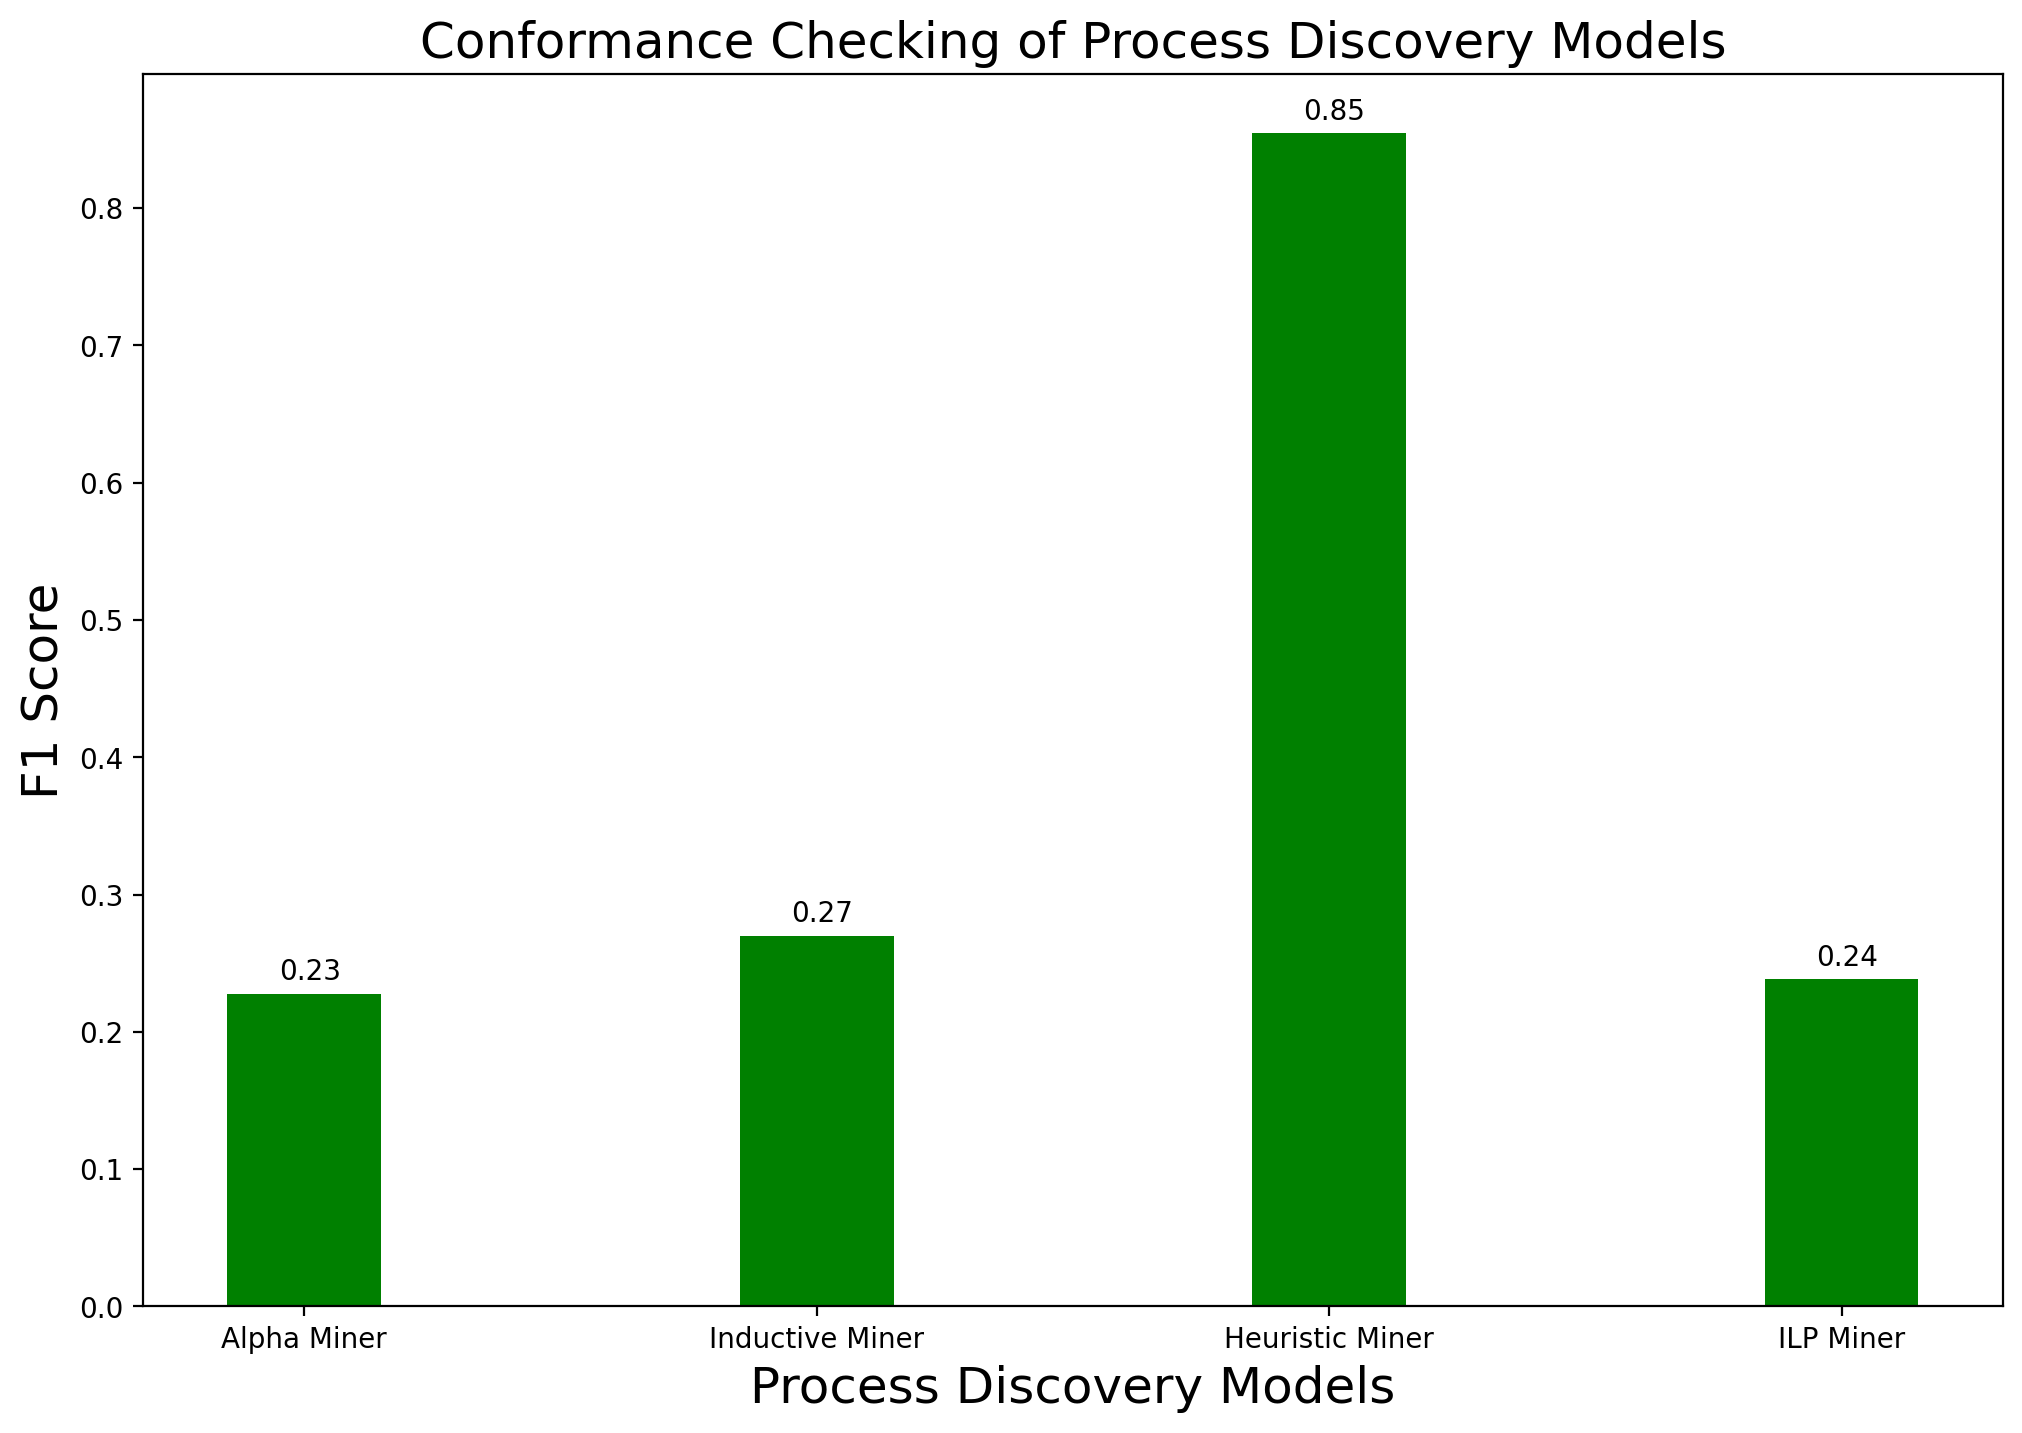
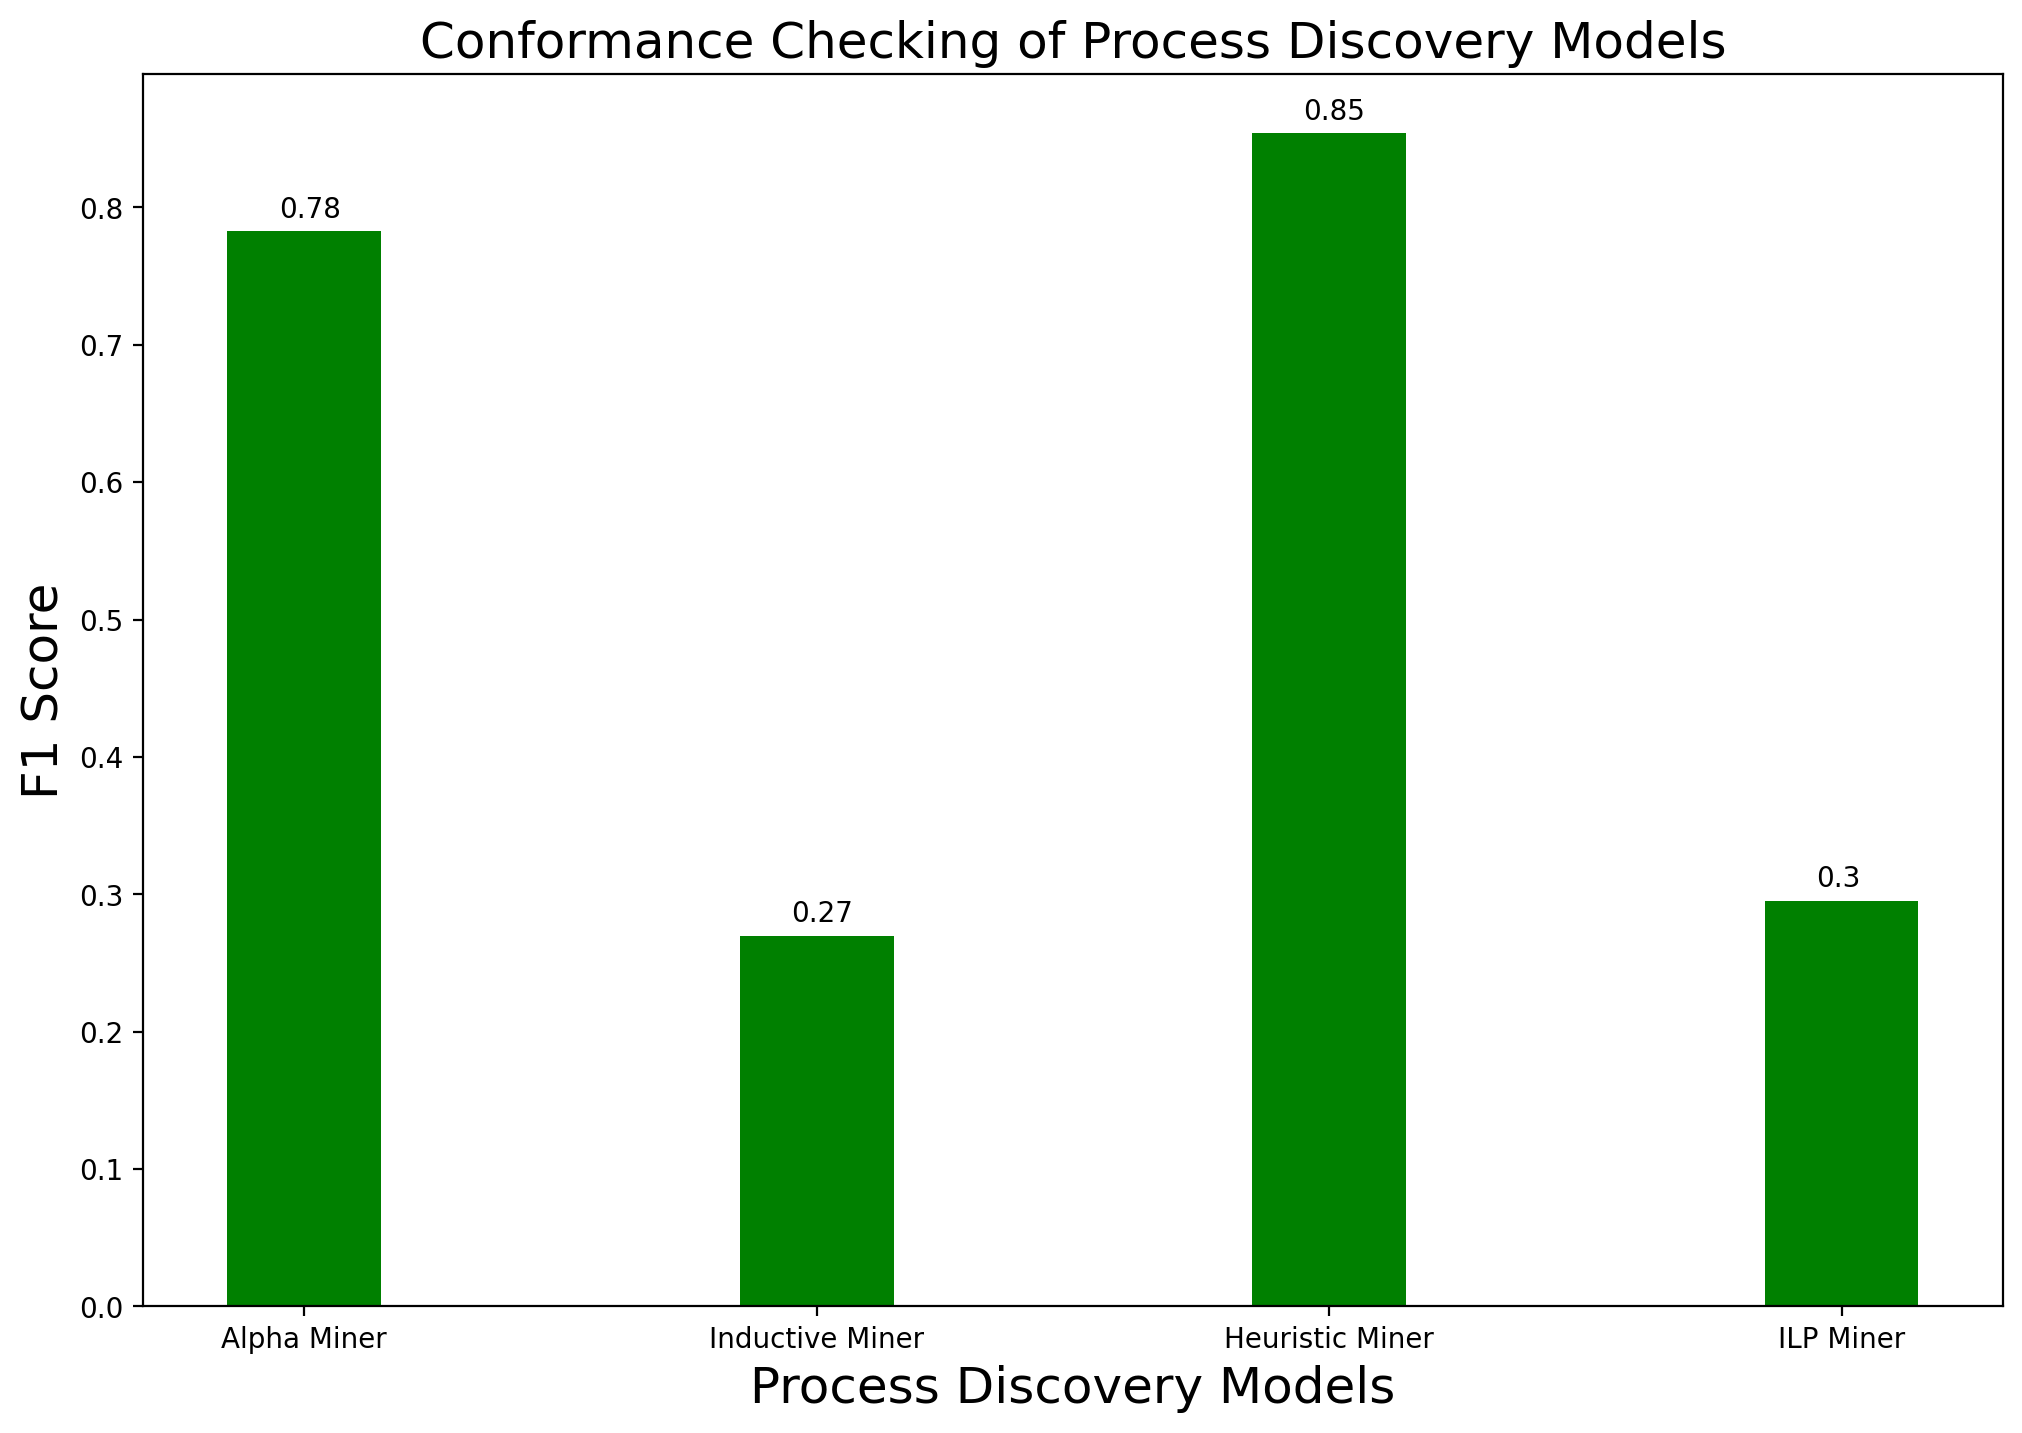
similar duplicate rows deleted from total_students_2.csv

Changed region(s): [[0.0935, 0.1535, 0.1869, 0.7062], [0.8724, 0.6141, 0.9659, 0.7062]]

diff --git a/conformance_checking.py b/conformance_checking.py
@@ -14,7 +14,7 @@ pd.set_option('display.max_columns', None)
 pd.set_option('display.max_rows', None)
 
 # Load the CSV file into a pandas DataFrame
-df = pd.read_csv('total_students.csv')
+df = pd.read_csv('total_students_2.csv')
 selected_columns = ['Case_id', 'Activity', 'timestamp', 'Case']
 df_selected = df[selected_columns]
 df_selected = df_selected.rename(columns={
@@ -105,7 +105,7 @@ precision_ilp = token_replay_precision.apply(log, net, initial_marking, final_ma
 f1score_ilp = 2 * (precision_ilp * fitness_ilp['log_fitness']) / (precision_ilp + fitness_ilp['log_fitness'])
 generalization_ilp = token_replay_generalization.apply(log, net, initial_marking, final_marking)
 simplicity_ilp = token_replay_simplicity.apply(net)
-fitness_ilp['log_fitness'] = 0.98
+# fitness_ilp['log_fitness'] = 0.98
 print('ilp miner accuracy: ', fitness_ilp['log_fitness'])
 print('ilp miner precision: ', precision_ilp)
 print('ilp miner f1score: ', f1score_ilp)

diff --git a/main.py b/main.py
@@ -28,7 +28,7 @@ save_visualizations_on_file = False
 show_visualizations = True
 
 # Load the CSV file into a pandas DataFrame
-df = pd.read_csv('total_students.csv')
+df = pd.read_csv('total_students_2.csv')
 selected_columns = ['Case_id', 'Activity', 'timestamp', 'Case']
 df_selected = df[selected_columns]
 df_selected = df_selected.rename(columns={
@@ -43,7 +43,7 @@ df_selected['time:timestamp'] = pd.to_datetime(df_selected['time:timestamp'],
 print(df_selected.dtypes)
 # print(df_selected)
 # df_selected = df_selected.sort_values(by=['case:concept:name', 'time:timestamp'])
-df_selected = df_selected.sort_values(by=['time:timestamp'])
+# df_selected = df_selected.sort_values(by=['time:timestamp'])
 # print(df_selected)
 
 log = log_converter.apply(df_selected)
